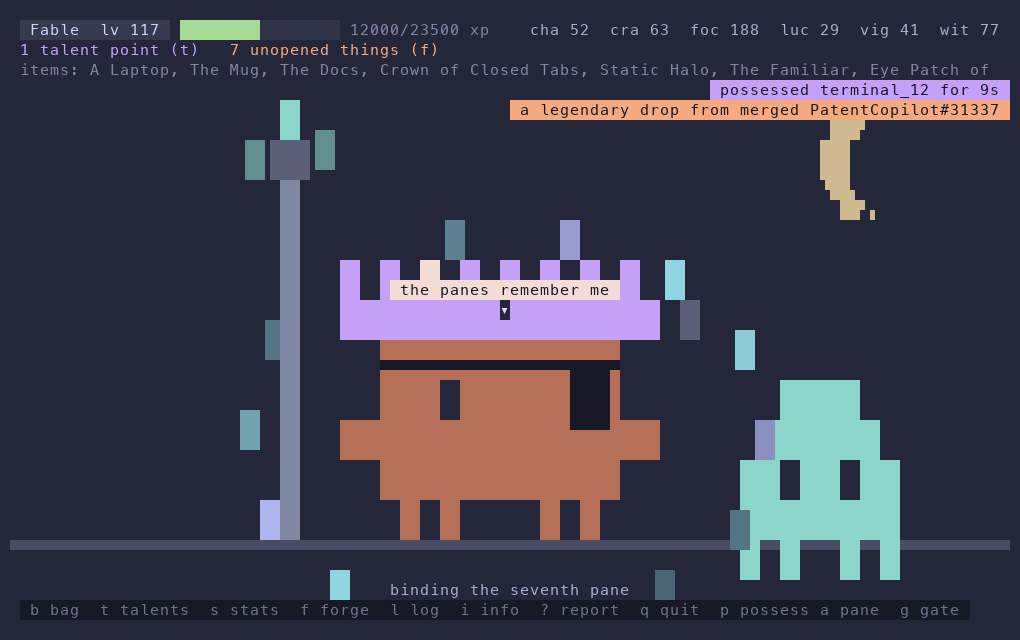
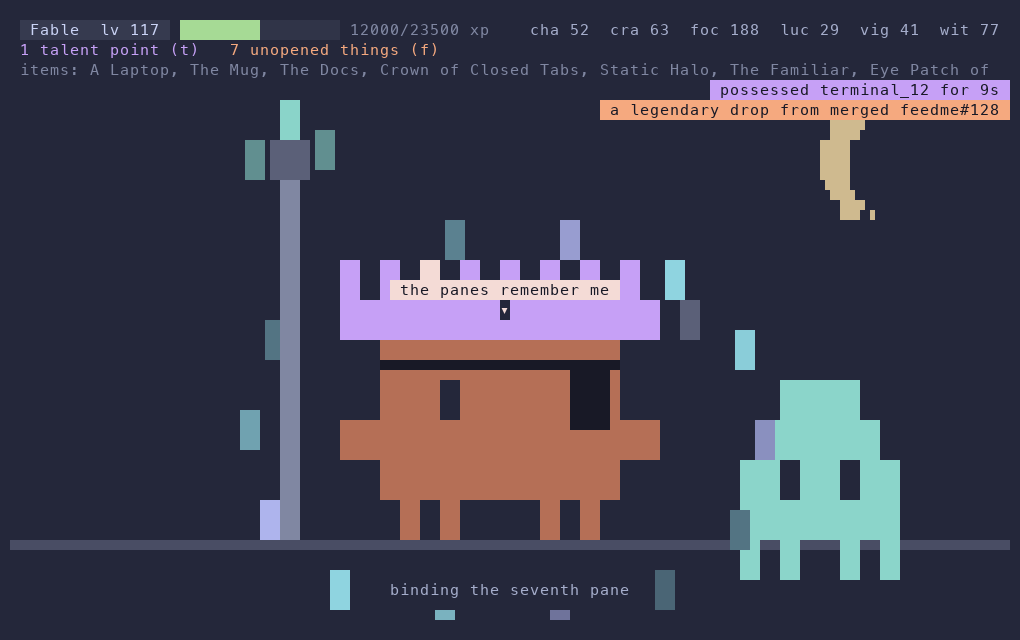
screenshots: personal repos only

diff --git a/tools/screenshots.py b/tools/screenshots.py
@@ -122,11 +122,11 @@ def render(screen, palette, path):
 MOCK_QUEUE = [
     ("item", "rare", "item", "ability", "reward for level 5"),
     ("item", "common", "item", "cosmetic", "dropped by merged wisp#38"),
-    ("item", "epic", "extend", "travel", "dropped by reviewed PatentCopilot#20233"),
+    ("item", "epic", "extend", "travel", "dropped by reviewed wisp#31"),
     ("category", "common", "item", "__new__", "milestone at level 10"),
     ("item", "legendary", "mutate", "possession", "reward for level 15"),
     ("talents", "rare", "item", "travel", "branches from Wanderlust"),
-    ("item", "ultra", "mutate", "possession", "dropped by merged PatentCopilot#31337"),
+    ("item", "ultra", "mutate", "possession", "dropped by merged feedme#128"),
 ]
 
 MOCK_TALENTS = [
@@ -390,7 +390,7 @@ def main():
     app.guy.blink_at = 1e9          # eyes open for the picture
     app.guy.say("the panes remember me", 30)
     app.toast("possessed terminal_12 for 9s", "mauve", 60)
-    app.toast("a legendary drop from merged PatentCopilot#31337", "peach", 60)
+    app.toast("a legendary drop from merged feedme#128", "peach", 60)
     for _ in range(3):
         app.frame(s, 1 / 30)
     render(s, P, os.path.join(OUT, "level117.png"))
